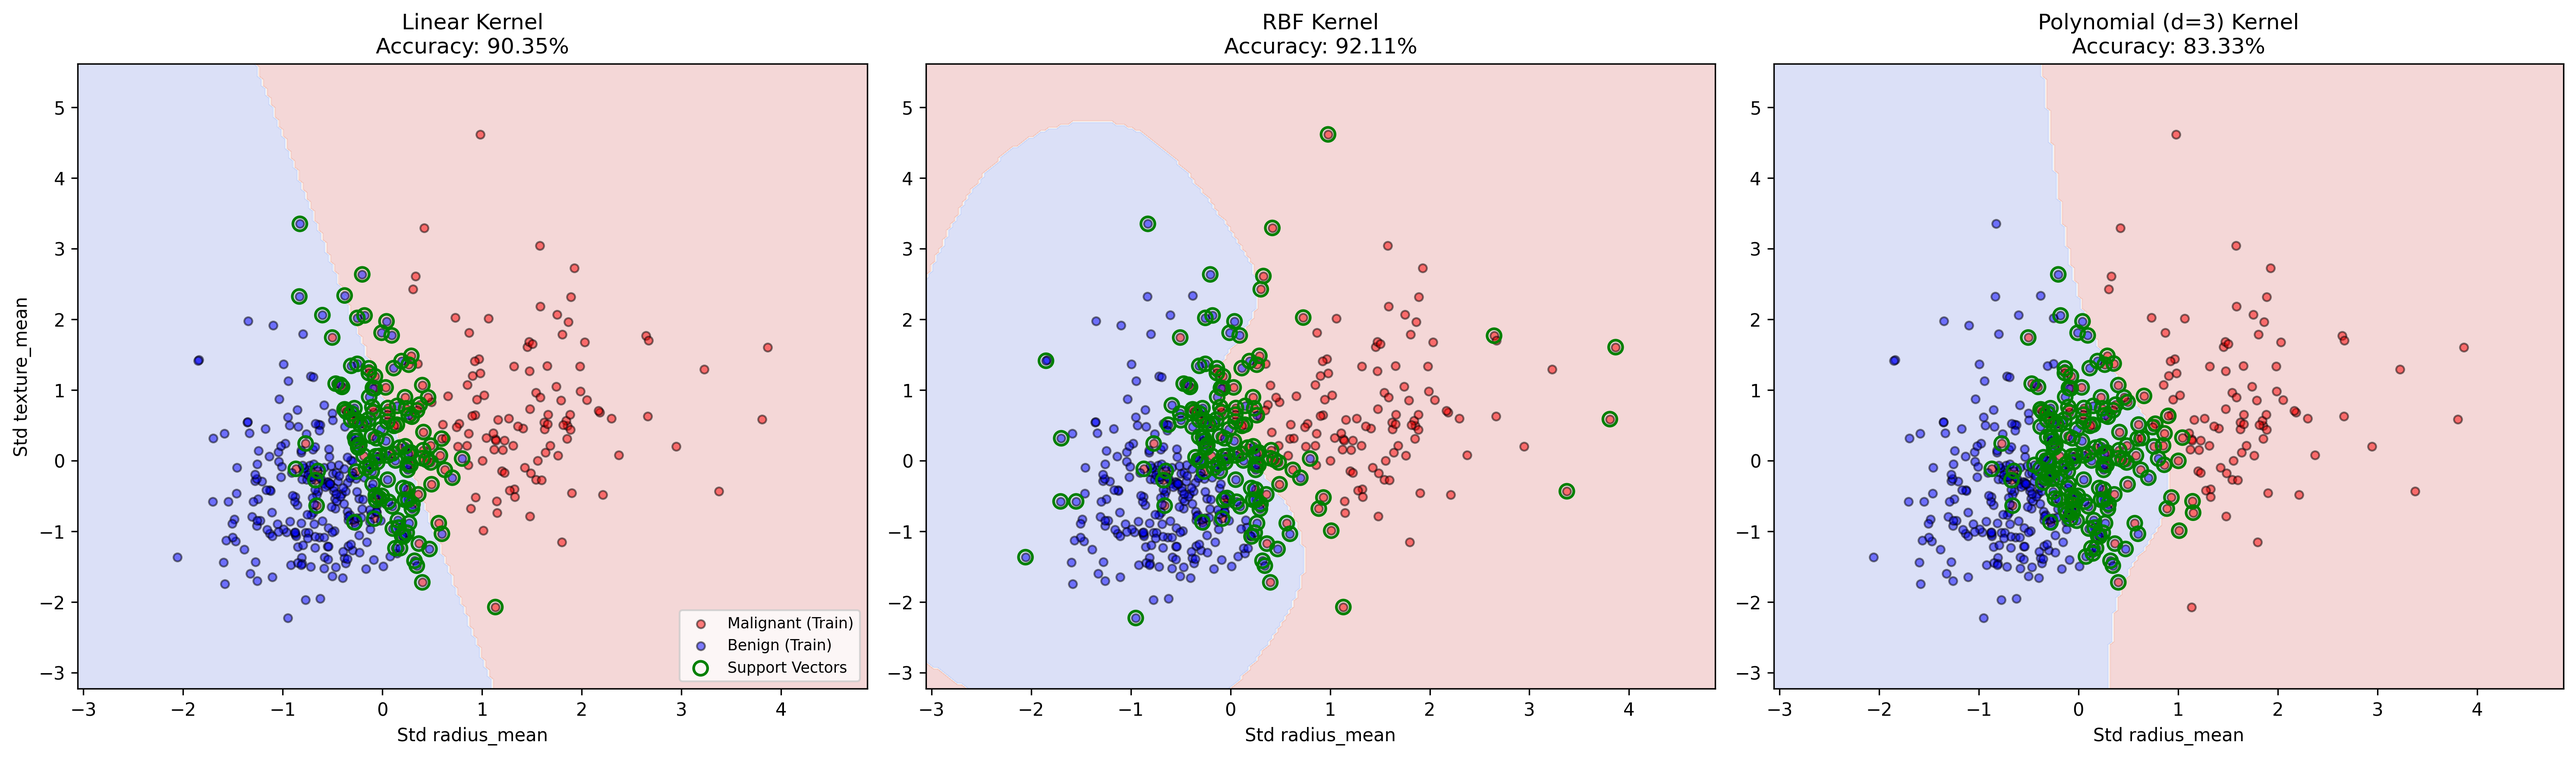
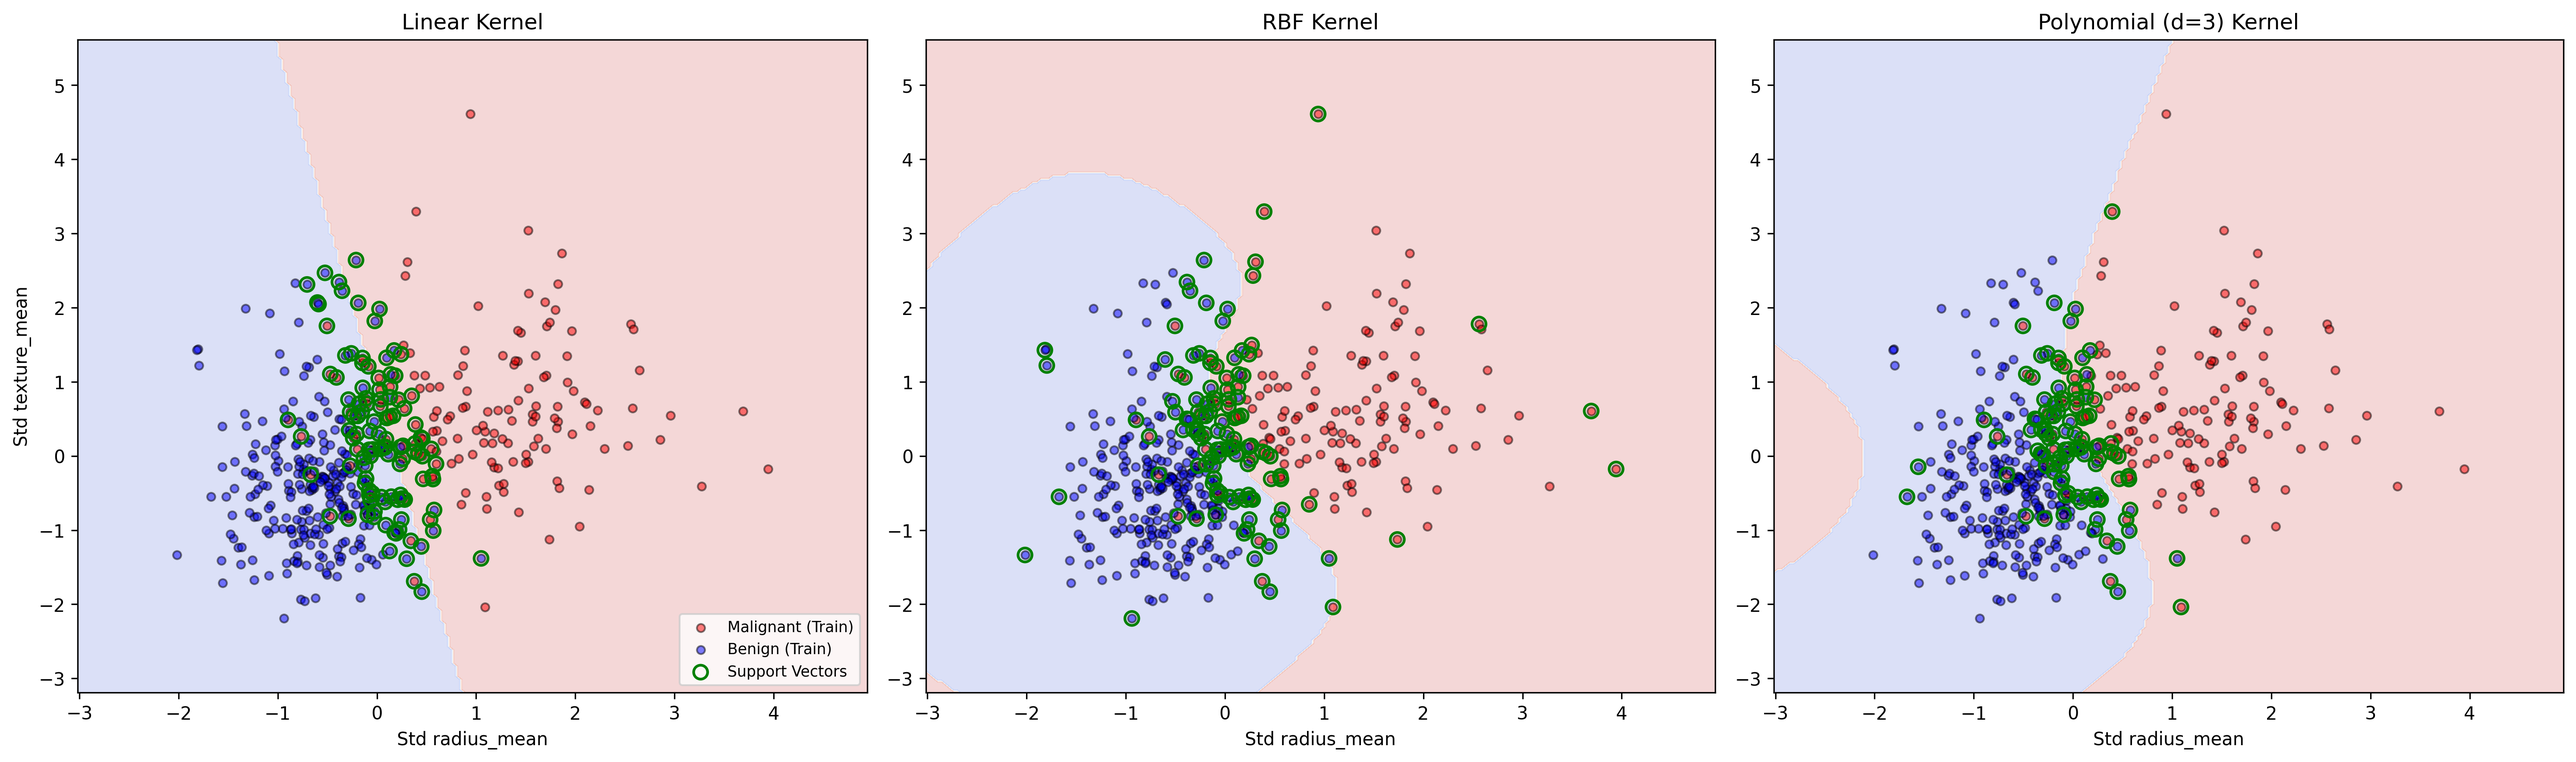
docs: add project documentation, update SVM visualization parameters, and refresh kernel comparison results

diff --git a/scratch/visualize_svm.py b/scratch/visualize_svm.py
@@ -14,7 +14,8 @@ from src.preprocessing import ManualStandardScaler
 from src.data_utils import train_test_split
 
 DATA_PATH = "data/data.csv"
-RANDOM_STATE = 42
+RANDOM_STATE = 21
+C = 1.0
 
 def visualize_kernels():
     # 1. Load and prepare data
@@ -37,11 +38,32 @@ def visualize_kernels():
     
     # Define kernels to compare
     kernel_configs = [
-        {"name": "Linear", "kernel": "linear", "C": 1.0},
-        {"name": "RBF", "kernel": "rbf", "C": 1.0, "gamma": "scale"},
-        {"name": "Polynomial (d=3)", "kernel": "poly", "C": 1.0, "degree": 3}
-    ]
-    
+    {
+        "name": "Linear",
+        "kernel": "linear",
+        "C": C,
+        "gamma": "scale",
+        "degree": 3,
+        "coef0": 0.0,
+    },
+    {
+        "name": "RBF",
+        "kernel": "rbf",
+        "C": C,
+        "gamma": "scale",
+        "degree": 3,
+        "coef0": 0.0,
+    },
+    {
+        "name": "Polynomial (d=3)",
+        "kernel": "poly",
+        "C": C,
+        "gamma": "scale",
+        "degree": 3,
+        "coef0": 1.0,
+    },
+]
+
     fig, axes = plt.subplots(1, 3, figsize=(20, 6))
     
     # Create meshgrid once for all plots
@@ -82,7 +104,7 @@ def visualize_kernels():
         y_pred = model.predict(X_test)
         accuracy = np.mean(y_pred == y_test)
         
-        ax.set_title(f"{config['name']} Kernel\nAccuracy: {accuracy * 100:.2f}%")
+        ax.set_title(f"{config['name']} Kernel")
         ax.set_xlabel('Std radius_mean')
         if i == 0:
             ax.set_ylabel('Std texture_mean')

diff --git a/README.md b/README.md
@@ -1,1 +1,49 @@
 # neural-final-project
+
+SVM kernel comparison on the Wisconsin Breast Cancer dataset.
+
+## Setup
+
+Requires Python 3.12+.
+
+**With uv (recommended):**
+
+```bash
+uv sync
+```
+
+**With standard venv:**
+
+```bash
+python3 -m venv .venv
+source .venv/bin/activate
+pip install cvxopt matplotlib numpy pandas
+```
+
+## Running the scripts
+
+### Kernel comparison
+
+Trains Linear, RBF, and Polynomial SVMs on all features and prints an accuracy/precision/recall table. Results are saved to `results/kernel_comparison.csv`.
+
+```bash
+# uv
+uv run python scripts/compare_kernels.py
+
+# venv
+python3 scripts/compare_kernels.py
+```
+
+### Decision boundary visualization
+
+Trains the same three kernels on two features (`radius_mean`, `texture_mean`) and saves side-by-side decision boundary plots to `results/svm_kernels_comparison.png`.
+
+```bash
+# uv
+uv run python scratch/visualize_svm.py
+
+# venv
+python3 scratch/visualize_svm.py
+```
+
+Run both scripts from the repo root.
